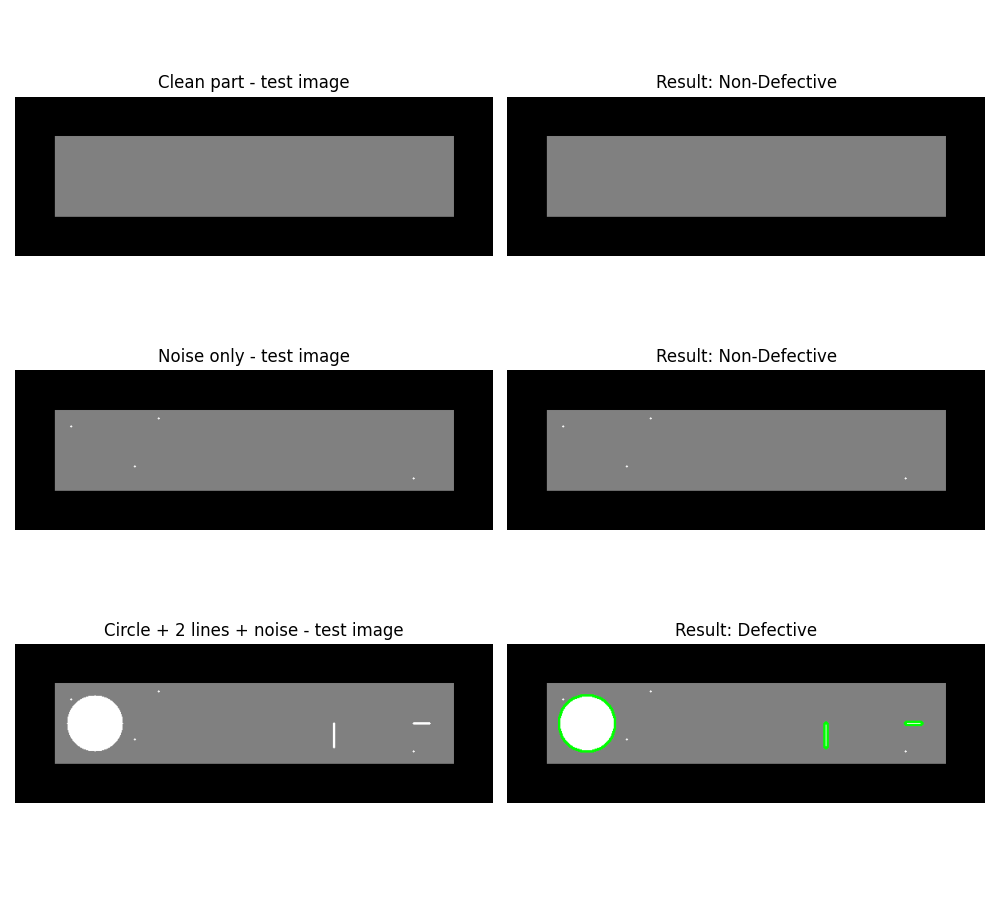
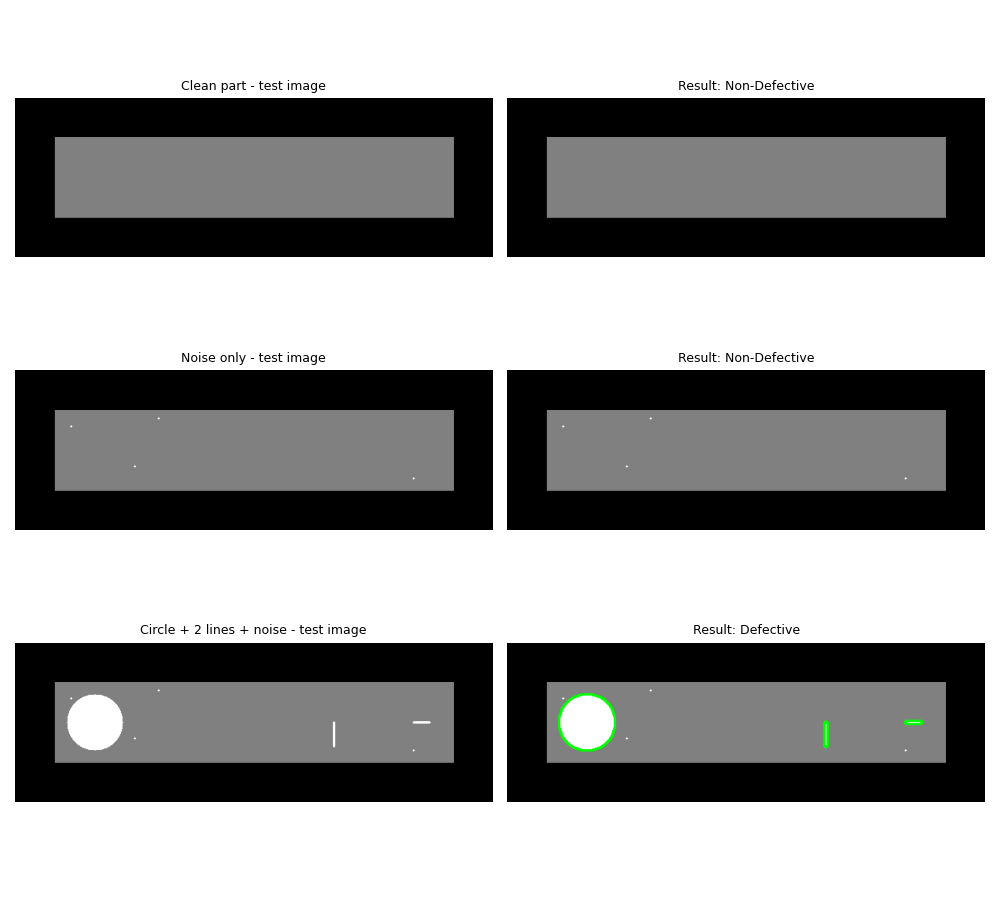
feat: add runnable demo and separate blur/morph kernels
- add synthetic reference/test image generators in src/utils.py
- add demo.py running WireDefectInspector on clean, noise-only and defect cases
- split kernel_size into blur_kernel (5x5) and morph_kernel (3x3) so thin
  defects survive morphological opening
- lower default min_defect_size from 100 to 20; 2x20px lines and small
  dots were being missed

diff --git a/src/defect_detector.py b/src/defect_detector.py
@@ -2,7 +2,10 @@ import cv2
 import numpy as np
 
 class WireDefectInspector:
-    def __init__(self, refImg, threshold=30, min_defect_size=20, contour_color=(0, 255, 0), contour_thickness=2, blur_kernel=(5, 5), morph_kernel=(3, 3)):
+    def __init__(self, refImg, threshold=30, min_defect_size=20, contour_color=(0, 255, 0), contour_thickness=2, blur_kernel=(5, 5), morph_kernel=(3, 3),
+                 threshold_mode="fixed", use_clahe=False, normalize_illumination=False, illum_ksize=101):
+        if threshold_mode not in ("fixed", "otsu", "adaptive"):
+            raise ValueError(f"threshold_mode must be 'fixed', 'otsu' or 'adaptive', got {threshold_mode!r}")
         self.refImg = refImg
         self.threshold = threshold
         self.min_defect_size = min_defect_size
@@ -10,9 +13,14 @@ class WireDefectInspector:
         self.contour_thickness = contour_thickness
         self.blur_kernel = blur_kernel
         self.morph_kernel = morph_kernel
+        self.threshold_mode = threshold_mode
+        self.normalize_illumination = normalize_illumination
+        self.illum_ksize = illum_ksize
+        self.clahe = cv2.createCLAHE(clipLimit=2.0, tileGridSize=(8, 8)) if use_clahe else None
         
         gray_ref = cv2.cvtColor(self.refImg, cv2.COLOR_BGR2GRAY)
-        self.ref_blurred = cv2.GaussianBlur(gray_ref, self.blur_kernel, 0)
+        self.ref_illum = self._illumination(gray_ref)
+        self.ref_blurred = self._gray_to_blurred(gray_ref, match_illumination=False)
 
     def inspect(self, testImg):
         test_blurred = self._preprocess(testImg)
@@ -36,18 +44,45 @@ class WireDefectInspector:
     
     def _preprocess(self, img):
         gray = cv2.cvtColor(img, cv2.COLOR_BGR2GRAY)
-        blurred = cv2.GaussianBlur(gray, self.blur_kernel, 0)
-        return blurred
+        return self._gray_to_blurred(gray, match_illumination=True)
+
+    def _illumination(self, gray):
+        # Low-frequency brightness map. A median (not a Gaussian) so that a big defect
+        # doesn't drag the estimate up and distort the gain around itself. Computed at
+        # 1/4 size for speed. +1 avoids dividing by zero on black areas.
+        h, w = gray.shape
+        small = cv2.resize(gray, (w // 4, h // 4), interpolation=cv2.INTER_AREA)
+        med = cv2.medianBlur(small, self.illum_ksize // 4 | 1)
+        med = cv2.GaussianBlur(med, (0, 0), 4)
+        return cv2.resize(med, (w, h), interpolation=cv2.INTER_LINEAR).astype(np.float32) + 1
+
+    def _gray_to_blurred(self, gray, match_illumination):
+        if match_illumination and self.normalize_illumination:
+            # rescale the test image so its local brightness matches the reference
+            gain = self.ref_illum / self._illumination(gray)
+            gray = np.clip(gray * gain, 0, 255).astype(np.uint8)
+        if self.clahe is not None:
+            gray = self.clahe.apply(gray)
+        return cv2.GaussianBlur(gray, self.blur_kernel, 0)
     
     def _compute_diff(self, test_blurred):
         diff = cv2.absdiff(self.ref_blurred, test_blurred)
-        _, thresh = cv2.threshold(diff, self.threshold, 255, cv2.THRESH_BINARY)
+        thresh = self._threshold(diff)
 
         kernel = np.ones(self.morph_kernel, np.uint8)
         solidMask = cv2.morphologyEx(thresh, cv2.MORPH_OPEN, kernel)
         cleanMask = cv2.morphologyEx(solidMask, cv2.MORPH_CLOSE, kernel)
         return cleanMask
     
+    def _threshold(self, diff):
+        if self.threshold_mode == "otsu":
+            return cv2.threshold(diff, 0, 255, cv2.THRESH_BINARY + cv2.THRESH_OTSU)[1]
+        if self.threshold_mode == "adaptive":
+            # pixel must exceed its 31x31 local mean by self.threshold
+            return cv2.adaptiveThreshold(diff, 255, cv2.ADAPTIVE_THRESH_GAUSSIAN_C,
+                                         cv2.THRESH_BINARY, 31, -self.threshold)
+        return cv2.threshold(diff, self.threshold, 255, cv2.THRESH_BINARY)[1]
+
     def _find_defects(self, thresh):
         contours, _ = cv2.findContours(thresh, cv2.RETR_EXTERNAL, cv2.CHAIN_APPROX_SIMPLE)
         return contours

diff --git a/demo.py b/demo.py
@@ -2,17 +2,17 @@ import cv2
 import matplotlib.pyplot as plt
 
 from src.defect_detector import WireDefectInspector
-from src.utils import make_reference, make_test
+from src.utils import apply_lighting_gradient, make_reference, make_test
 
 
 def show(ax, img_bgr, title):
     ax.imshow(cv2.cvtColor(img_bgr, cv2.COLOR_BGR2RGB))
-    ax.set_title(title)
+    ax.set_title(title, fontsize=9)
     ax.axis("off")
 
 
-def main():
-    ref = make_reference()
+def basic_demo(ref):
+    """Clean / noise-only / defective parts under the reference lighting."""
     inspector = WireDefectInspector(ref)
 
     cases = {
@@ -30,8 +30,44 @@ def main():
         show(axs[row][0], test, f"{name} - test image")
         show(axs[row][1], result["defect_img"], f"Result: {result['status']}")
 
-    plt.tight_layout()
-    plt.savefig("demo_output.png", dpi=100)
+    fig.tight_layout()
+    fig.savefig("demo_output.png", dpi=100)
+
+
+def lighting_demo(ref, left=0.7, right=1.3):
+    """Same parts, but lit unevenly. Which preprocessing keeps the clean part clean and still finds the defects?"""
+    methods = {
+        "fixed threshold": dict(),
+        "Otsu": dict(threshold_mode="otsu"),
+        "adaptive": dict(threshold_mode="adaptive"),
+        "fixed + CLAHE": dict(use_clahe=True),
+        "fixed + illumination\nnormalization": dict(normalize_illumination=True),
+    }
+    parts = {
+        "clean": apply_lighting_gradient(make_test(ref, False, False, False, False), left, right),
+        "defective": apply_lighting_gradient(make_test(ref), left, right),
+    }
+
+    print(f"\nLighting gradient {left}-{right}  (real defects in the defective part: 3)")
+    print(f"{'method':38s}{'clean part':>12s}{'defective part':>16s}")
+    fig, axs = plt.subplots(len(parts), len(methods), figsize=(4 * len(methods), 2.6 * len(parts)))
+    for col, (name, kwargs) in enumerate(methods.items()):
+        inspector = WireDefectInspector(ref, **kwargs)
+        found = {}
+        for row, (part, img) in enumerate(parts.items()):
+            result = inspector.inspect(img)
+            found[part] = len(result["defects"])
+            show(axs[row][col], result["defect_img"], f"{name.replace(chr(10), ' ')}\n{part}: {found[part]} defect(s)")
+        print(f"{name.replace(chr(10), ' '):38s}{found['clean']:>12d}{found['defective']:>16d}")
+
+    fig.tight_layout()
+    fig.savefig("demo_lighting.png", dpi=100)
+
+
+def main():
+    ref = make_reference()
+    basic_demo(ref)
+    lighting_demo(ref)
     plt.show()
 
 

diff --git a/src/utils.py b/src/utils.py
@@ -32,3 +32,9 @@ def make_test(ref, big_defect=True, thin_line=True, short_line=True, noise_dots=
         for center in [(70, 70), (180, 60), (500, 135), (150, 120)]:
             cv2.circle(test, center, 1, white, -1)
     return test
+
+
+def apply_lighting_gradient(img, left=0.7, right=1.3):
+    """Simulate uneven lighting: scale brightness linearly from `left` to `right` across the width."""
+    gain = np.linspace(left, right, img.shape[1], dtype=np.float32)[None, :, None]
+    return np.clip(img.astype(np.float32) * gain, 0, 255).astype(np.uint8)
